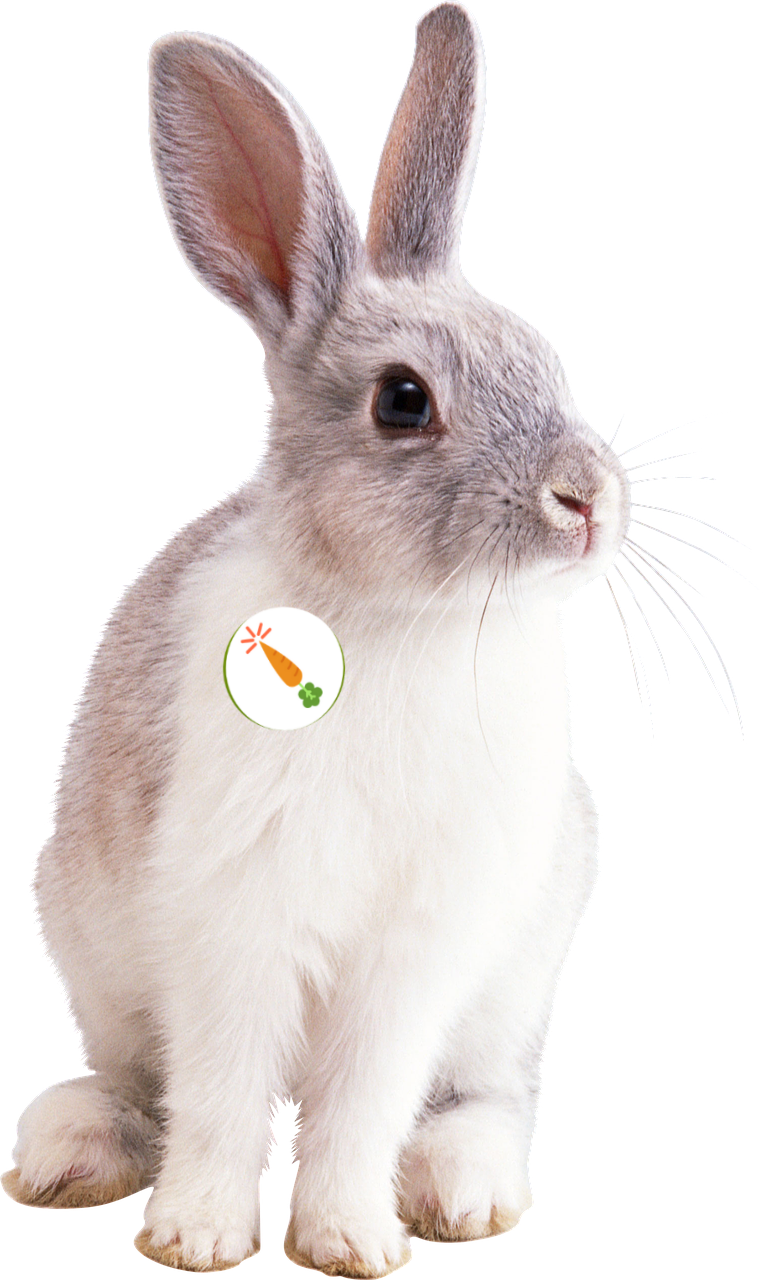
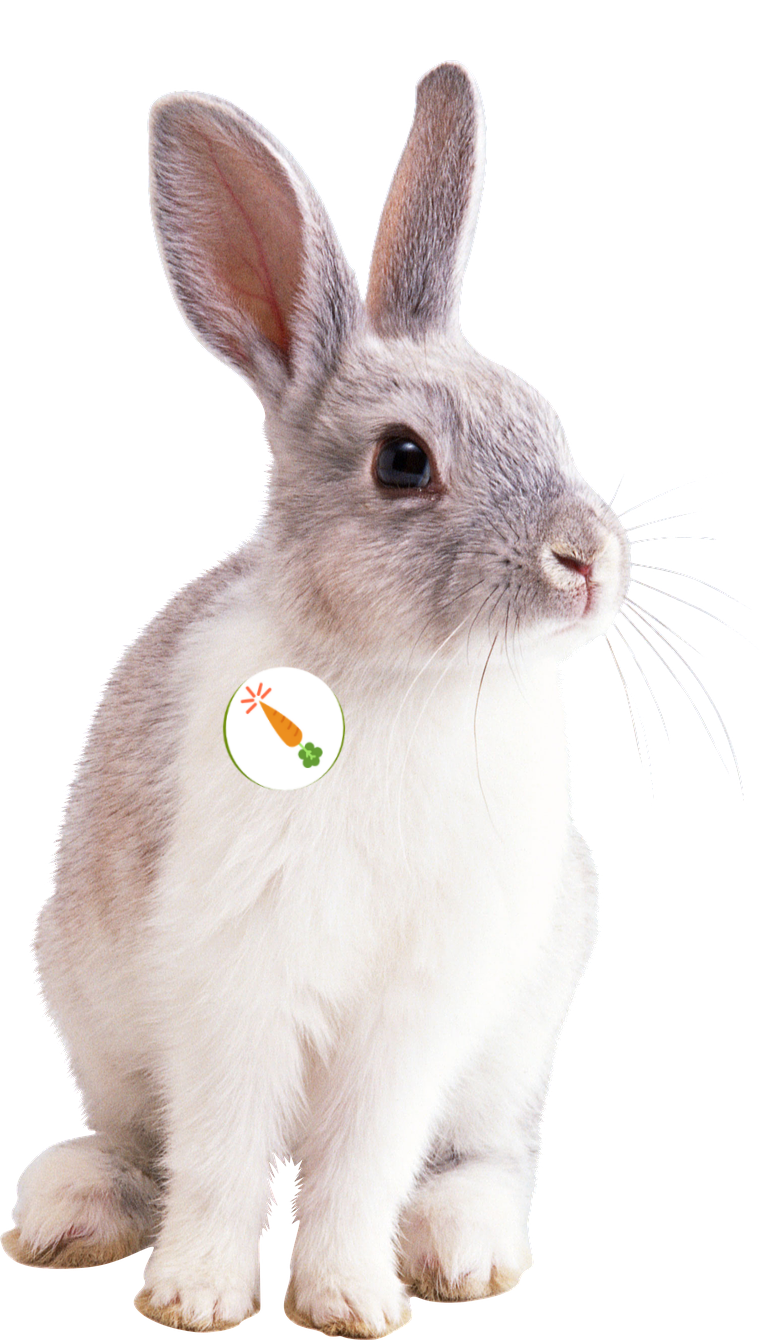
set min height + width

diff --git a/public/styles.css b/public/styles.css
@@ -1,10 +1,10 @@
+/* MAIN */
 
-* {
-    font-family: Tahoma;
-}
 
 body {
     margin: 0;
+    overflow: auto;
+
 }
 
 .carrotcursor {
@@ -18,10 +18,10 @@ body {
     align-items: center;
     background-image: linear-gradient(rgb(130, 160, 12), rgb(15,56,12));
     background-size: cover;
-    height: 100vh;
-    width: 100vw;
+    min-width: 1400px;
+    min-height: 800px;
+
     margin: 0;
-    overflow: hidden;
     /* adjust to small displays */
 }
 
@@ -31,6 +31,7 @@ body {
     align-self: flex-start;
     justify-content: flex-end;
     margin-top: 15px;
+    z-index: 10;
 }
 
 #navbar a {
@@ -40,40 +41,84 @@ body {
     text-decoration: none;
 }
 
-#top-layer {
-    position: absolute;
-    top: 0;
-    width: 100%;
-    height: 210px;
-    background-color: rgba(0,0,0,.15);
-    margin: 0;
-}
-
 #background-image {
     grid-area: 1 / 1 / 3 / 3;
     background-image: url(img/rabbit_badge.png);
     background-size: 700px;
-    background-repeat: no-repeat;
     background-position: top left;
-    margin-top: 100px;
+    background-repeat: no-repeat;
     height: 100%;
 }
 
 
+/* GENERIC */
+* {
+    font-family: Tahoma;
+}
 
 h1 {
     color: rgb(240,240,240);
-    /* text-shadow: 3px 3px 5px rgb(240,80,5); */
     font-size: 55px;
     margin-bottom: 10px;
-
     letter-spacing: 3px;
     font-weight: bolder;
 }
 
+form {
+    grid-area: 2 / 2 / 3 /3;
+    justify-self: center;
+    align-self: center;
+
+    display: flex;
+    flex-direction: column;
+    width: 350px;
+    /* height: 420px; */
+    background: rgba(200, 200, 200, .5);
+    border-radius: 4px;
+    padding: 10px 25px;
+    color: rgb(70,70,70);
+    margin-right: 40px;
+
+}
+
+form .row  {
+    display: flex;
+    justify-content: space-between;
+    align-items: center;
+}
+
+input {
+    margin: 15px 0 5px 6px;
+    padding: 5px;
+    border-radius: 3px;
+    width: 220px;
+    height: 26px;
+    font-size: 17px;
+}
+
+button {
+    align-self: center;
+    width: 100px;
+    height: 40px;
+    border-radius: 3px;
+    border: 2px rgb(80,80,80) solid;
+    /* margin-top: 10px; */
+    background: rgb(240,80,5);
+    color: white;
+    font-size: 18px;
+}
+
+#error-message {
+    color: darkred;
+}
 
 
-/* REGISTRATION */
+
+/* REGISTRATION AND LOGIN */
+#form-registration {
+    align-self: flex-end;
+}
+
 #form-login {
     grid-area: 2 / 2 / 3 /3;
     justify-self: center;
@@ -85,12 +130,8 @@ h1 {
     font-size: 16px;
 }
 
-/* LOGIN */
 
-
-
-/* PETITION */
-
+/* SIGNATURE */
 
 #please-sign {
     grid-area: 1 / 1 / 3 / 3;
@@ -119,6 +160,7 @@ top: 20px;
     height: 70px;
 
 } */
+
 .description {
     grid-area: 1 / 2 / 2 /3 ;
     font-size: 26px;
@@ -139,24 +181,6 @@ top: 20px;
 }
 
 
-
-form {
-    grid-area: 2 / 2 / 3 /3;
-    justify-self: center;
-    align-self: center;
-
-    display: flex;
-    flex-direction: column;
-    width: 350px;
-    /* height: 420px; */
-    background: rgba(200, 200, 200, .5);
-    border-radius: 4px;
-    padding: 10px 25px;
-    color: rgb(70,70,70);
-    margin-right: 40px;
-
-}
-
 #form-signature {
     justify-self: right;
     align-self: flex-end;
@@ -166,21 +190,6 @@ form {
     margin-bottom: 10%;
     margin-right: 10%;
 
-}
-
-form .row  {
-    display: flex;
-    justify-content: space-between;
-    align-items: center;
-}
-
-input {
-    margin: 15px 0 5px 6px;
-    padding: 5px;
-    border-radius: 3px;
-    width: 220px;
-    height: 26px;
-    font-size: 17px;
 }
 
 #canvas-layer {
@@ -201,57 +210,6 @@ canvas {
 
 }
 
-button {
-    align-self: center;
-    width: 100px;
-    height: 40px;
-    border-radius: 3px;
-    border: 2px rgb(80,80,80) solid;
-    /* margin-top: 10px; */
-    background: rgb(240,80,5);
-    color: white;
-    font-size: 18px;
-}
-
-
-#signature-image {
-    grid-area: 2 / 2 / 3 / 3;
-    justify-self: center;
-    align-self: flex-end;
-    margin-bottom: -130px;
-    width: 340px;
-    height: 450px;
-    background-image: url(img/paper.png);
-    text-align: center;
-    padding: 40px 20px 20px 40px;
-}
-
-#signature-image div {
-    margin-top: 20px;
-
-}
-
-#signature-image img {
-    height: 70px;
-
-}
-
-#signature-image p {
-    font-size: 40px;
-    font-family: Garamond;
-}
-
-#signature-image img.signature {
-     width: 240px;
-     height: 75px;
-
-}
-
-
-
-#error-message {
-    color: darkred;
-}
 
 /* thank-you */
 #thank-you {
@@ -315,6 +273,39 @@ button {
     background: rgba(0,0,0,0);
     cursor: pointer;
 }
+
+#signature-image {
+    grid-area: 2 / 2 / 3 / 3;
+    justify-self: center;
+    align-self: flex-end;
+    margin-bottom: -130px;
+    width: 340px;
+    height: 450px;
+    background-image: url(img/paper.png);
+    text-align: center;
+    padding: 40px 20px 20px 40px;
+}
+
+#signature-image div {
+    margin-top: 20px;
+
+}
+
+#signature-image img {
+    height: 70px;
+}
+
+#signature-image p {
+    font-size: 40px;
+    font-family: Garamond;
+}
+
+#signature-image img.signature {
+     width: 240px;
+     height: 75px;
+
+}
+
 
 /* SIGNERS */
 
@@ -380,9 +371,6 @@ button {
     margin-bottom: 40px;
 }
 
-#form-registration {
-    align-self: flex-end;
-}
 /* MODAL */
 
 .modal-container {
@@ -406,8 +394,13 @@ button {
     background-color: white;
 }
 
-.modal p {
+.modal h2 {
+    color: rgb(80,80,80);
+}
+
+.modal div {
     font-size: 16px;
+    color: rgb(80,80,80);
 }
 
 .modal div {
@@ -418,7 +411,7 @@ button {
     position: relative;
     float: right;
     font-family: Tahoma;
-    font-size: 20px;
+    font-size: 28px;
     cursor: pointer;
 }
 

diff --git a/public/app.js b/public/app.js
@@ -18,26 +18,25 @@ $("#thanks").ready(function() {
 
 var canvas = document.getElementById("canvas");
 var context = canvas.getContext("2d");
-let drawing;
-let prevPosition = [];
-let canvasData;
+var drawing;
+var prevPosition = [];
+var canvasData;
 
-$("#canvas").on("mousedown", function() {
+$(canvas).on("mousedown", function() {
     drawing = true;
     prevPosition = [];
     drawSignature();
 });
 
-$("#canvas").on("mouseup", function() {
+$(canvas).on("mouseup", function() {
     drawing = false;
     canvasData = canvas.toDataURL("image/png");
     $("#signature").val(canvasData);
-    console.log("canvasData: ", canvasData);
     drawSignature();
 });
 
 function drawSignature() {
-    $("#canvas").on("mousemove", function(e) {
+    $(canvas).on("mousemove", function(e) {
         if (!drawing) {
             return;
         } else {

diff --git a/index.js b/index.js
@@ -61,8 +61,8 @@ app.get("/logout", (req, res) => {
 });
 
 app.get("/login", (req, res) => {
-    // req.session.userId = null;
-    // req.session.signed = null;
+    req.session.userId = null;
+    req.session.signed = null;
 
     res.render("login", {
         layout: "main"
@@ -270,7 +270,7 @@ app.post("/edit", (req, res) => {
                 req.body["email"]
             )
         ])
-            .then(result => {
+            .then(() => {
                 if (req.session.signed === req.session.userId) {
                     res.redirect("/thank-you");
                 } else {
